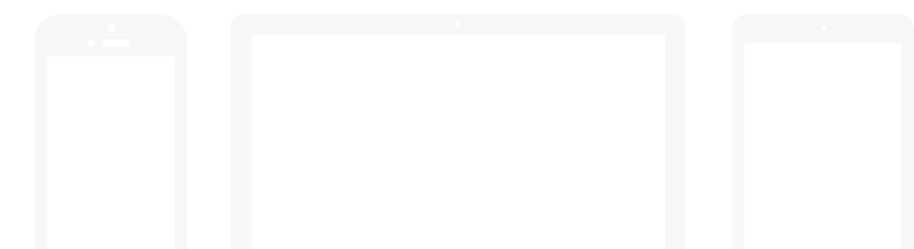
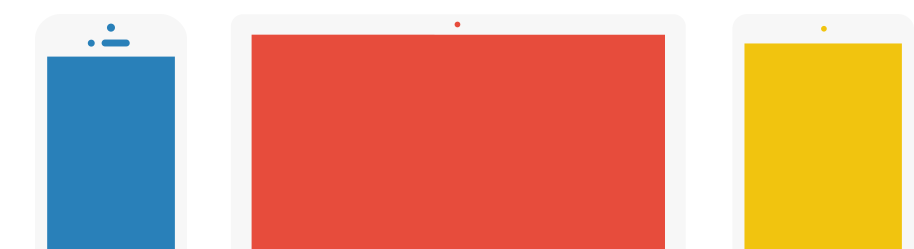
Added layout for features and styled images
Added more color. was way too bland and green and sad.

diff --git a/index.html b/index.html
@@ -56,7 +56,7 @@
   </div>
   </header>
 
-  <p class="feature-list">Getting Started With Ladder</p>
+  <p id="feature-list">Getting Started With Ladder</p>
 
   <div class="container" class="cf" id="main">
     <div class="box">
@@ -74,9 +74,60 @@
     </div>
 
   </div> <!--! end of #container -->
+  <div class="container" class="cf" id="main">
+    <div class="box">
+      <div class="span6">
+        <p class="title">Diving into Ladder’s Structure</p>
+        <div class="content">
+          <p class="bold">Includes the following set of files:</p>
+          <ul id="files">
+            <li>Basic HTML5 template including jQuery to get you started</li>
+            <li>Stylesheet that includes 12 column grid, basic styles, and typography</li>
+            <li>An empty stylesheet for you to fill with your own beautiful styles</li>
+          </ul>
+        </div>
+      </div>
+      <div class="span6">
+        <img src="img/finder-ss.png" />
+      </div>
+    </div>
 
-<!--   <footer>
-    <p class="footer-top">Deploy <span class="amp">&amp;</span> Destroy</p>
-    <p class="copyright">Copyright 2013 Scott Fahrig | Ladder Framework is still in active development. Any feedback / improvements are obviously welcome. Feel free to <a href="https://github.com/smfahrig/ladder">watch this repo on Github</a>.</p>
-  </footer> -->
+  </div> <!--! end of #container -->
+    <div class="container" class="cf" id="main">
+    <div class="box">
+      <div class="span6">
+        <img src="img/docs-ss.png" />
+      </div>
+      <div class="span6">
+        <p class="title">View the Documentation and Demos</p>
+        <div class="content">
+          <a href="#" class="bold">Ladder CSS</a>
+          <p>Styles for common HTML elements for typography, list items, tables and more.</p>
+          <a href="#" class="bold">Grid Layout</a>
+          <p>12 Column fluid and responsive grid to cater for mobile devices, tablets and desktop computers.</p>          
+        </div>
+      </div>
+    </div>
+  </div> <!--! end of #container -->
+
+    </div> <!--! end of #container -->
+    <div class="container" class="cf" id="main">
+    <div class="box">
+      <div class="span6">
+        <p class="title">Follow this project on Github</p>
+        <div class="content">
+          <p>Ladder Framework is in active development and any feedback / improvements are most welcome.</p> 
+          <a href="#" class="bold">Fork Me</a>         
+        </div>
+      </div>
+      <div class="span6">
+        <img src="img/octocat.png" id="octocat"/>
+      </div>
+    </div>
+  </div> <!--! end of #container -->
+
+
+  <footer>
+    <p class="copyright">Copyright 2013 Scott Fahrig | Documentation | Github</p>
+  </footer>
 </html>

diff --git a/css/custom.css b/css/custom.css
@@ -122,7 +122,10 @@ img {
 	margin-left: auto;
 	display: block;
 	height: auto;
-	padding-top: 35px;
+	margin-top: 30px;
+	border-width: 1px;
+	border-style: solid;
+	border-color: #000000;
 }
 
 .title {
@@ -132,13 +135,22 @@ img {
 	font-family: "proxima-nova",sans-serif;
 }
 
-.feature-list {
+.bold {
+	font-weight: bold;
+}
+
+#files {
+	list-style-type: square;
+}
+
+#feature-list {
 	font-family: "proxima-nova",sans-serif;
 	text-align: center;
 	font-size: 1.5em;
 	font-weight: 800;
 	color: #070707;
 	text-transform: uppercase;
+	padding-top: 20px;
 }
 
 p .feature-list {
@@ -146,16 +158,21 @@ p .feature-list {
 	color: #ff00ff;
 }
 
-/*footer {
+footer {
   margin: 0 0 0 0;
   padding: 0 0 0 0;
   position: relative;
-  bottom: 0px;
-}*/
+  height: 130px;
+  background-color: #353334;
+}
 
 span.amp {
   font-family: Baskerville, Palatino, "Book Antiqua", serif;
   font-style: italic;
+}
+
+#octocat {
+	border-width: 0px;
 }
 
 #devices {
